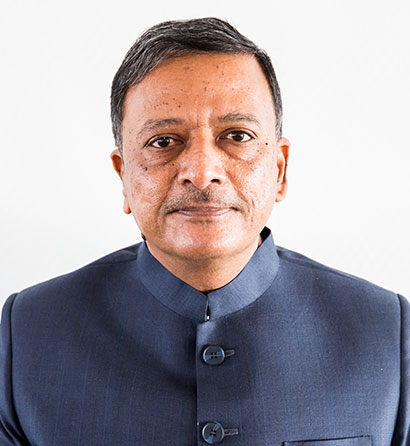
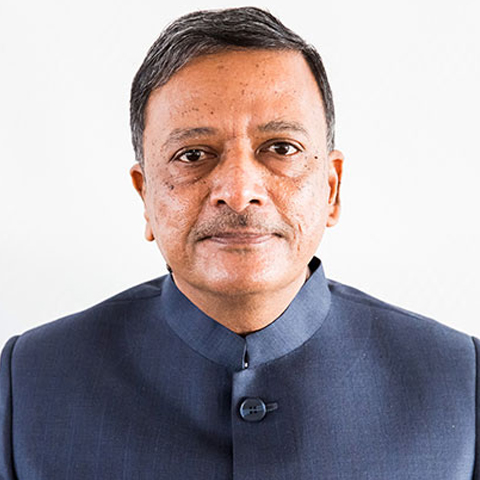
updated committe

diff --git a/agenda.html b/agenda.html
@@ -2,7 +2,7 @@
 <html lang="en">
 <head>
 	<meta charset="UTF-8">
-	<title>Responsive Homepage design with Bootstrap 4 and Animate css</title>
+	<title>NCBTA-2021 | Online</title>
 	<link href="https://fonts.googleapis.com/css2?family=Merienda&display=swap" rel="stylesheet">
 	<link href="https://fonts.googleapis.com/css2?family=Poppins:wght@400;700&display=swap" rel="stylesheet">
 	<link href="https://stackpath.bootstrapcdn.com/bootstrap/4.1.3/css/bootstrap.min.css" rel="stylesheet">

diff --git a/index.html b/index.html
@@ -2,7 +2,7 @@
 <html lang="en">
 <head>
 	<meta charset="UTF-8">
-	<title>Responsive Homepage design with Bootstrap 4 and Animate css</title>
+	<title>NCBTA-2021 | Online</title>
 	<link href="https://fonts.googleapis.com/css2?family=Merienda&display=swap" rel="stylesheet">
 	<link href="https://fonts.googleapis.com/css2?family=Poppins:wght@400;700&display=swap" rel="stylesheet">
 	<link href="https://stackpath.bootstrapcdn.com/bootstrap/4.1.3/css/bootstrap.min.css" rel="stylesheet">

diff --git a/publication.html b/publication.html
@@ -2,7 +2,7 @@
 <html lang="en">
 <head>
 	<meta charset="UTF-8">
-	<title>Responsive Homepage design with Bootstrap 4 and Animate css</title>
+	<title>NCBTA-2021 | Online</title>
 	<link href="https://fonts.googleapis.com/css2?family=Merienda&display=swap" rel="stylesheet">
 	<link href="https://fonts.googleapis.com/css2?family=Poppins:wght@400;700&display=swap" rel="stylesheet">
 	<link href="https://stackpath.bootstrapcdn.com/bootstrap/4.1.3/css/bootstrap.min.css" rel="stylesheet">

diff --git a/registration.html b/registration.html
@@ -2,7 +2,7 @@
 <html lang="en">
 <head>
 	<meta charset="UTF-8">
-	<title>Responsive Homepage design with Bootstrap 4 and Animate css</title>
+	<title>NCBTA-2021 | Online</title>
 	<link href="https://fonts.googleapis.com/css2?family=Merienda&display=swap" rel="stylesheet">
 	<link href="https://fonts.googleapis.com/css2?family=Poppins:wght@400;700&display=swap" rel="stylesheet">
 	<link href="https://stackpath.bootstrapcdn.com/bootstrap/4.1.3/css/bootstrap.min.css" rel="stylesheet">

diff --git a/speakers.html b/speakers.html
@@ -2,7 +2,7 @@
 <html lang="en">
 <head>
 	<meta charset="UTF-8">
-	<title>Responsive Homepage design with Bootstrap 4 and Animate css</title>
+	<title>NCBTA-2021 | Online</title>
 	<link href="https://fonts.googleapis.com/css2?family=Merienda&display=swap" rel="stylesheet">
 	<link href="https://fonts.googleapis.com/css2?family=Poppins:wght@400;700&display=swap" rel="stylesheet">
 	<link href="https://stackpath.bootstrapcdn.com/bootstrap/4.1.3/css/bootstrap.min.css" rel="stylesheet">

diff --git a/topic.html b/topic.html
@@ -3,7 +3,7 @@
 
 <head>
     <meta charset="UTF-8">
-    <title>Responsive Homepage design with Bootstrap 4 and Animate css</title>
+	<title>NCBTA-2021 | Online</title>
     <link href="https://fonts.googleapis.com/css2?family=Merienda&display=swap" rel="stylesheet">
     <link href="https://fonts.googleapis.com/css2?family=Poppins:wght@400;700&display=swap" rel="stylesheet">
     <link href="https://stackpath.bootstrapcdn.com/bootstrap/4.1.3/css/bootstrap.min.css" rel="stylesheet">

diff --git a/Committee.html b/Committee.html
@@ -154,7 +154,7 @@
 					<div class="single-person">
 						<div class="person-image">
                             <h5 class="text-center mt-1 text-warning">CONVENER</h5>
-							<img src="images/AnujKumarAsst.ProfChemistryGLA119514.jpg" class="anujimage" alt="">
+							<img src="images/AnujKumarAsst.ProfChemistryGLA119514.jpg"  alt="">
 							<span class="icon">
 								<i class="fab fa-html5"></i>
 							</span>
